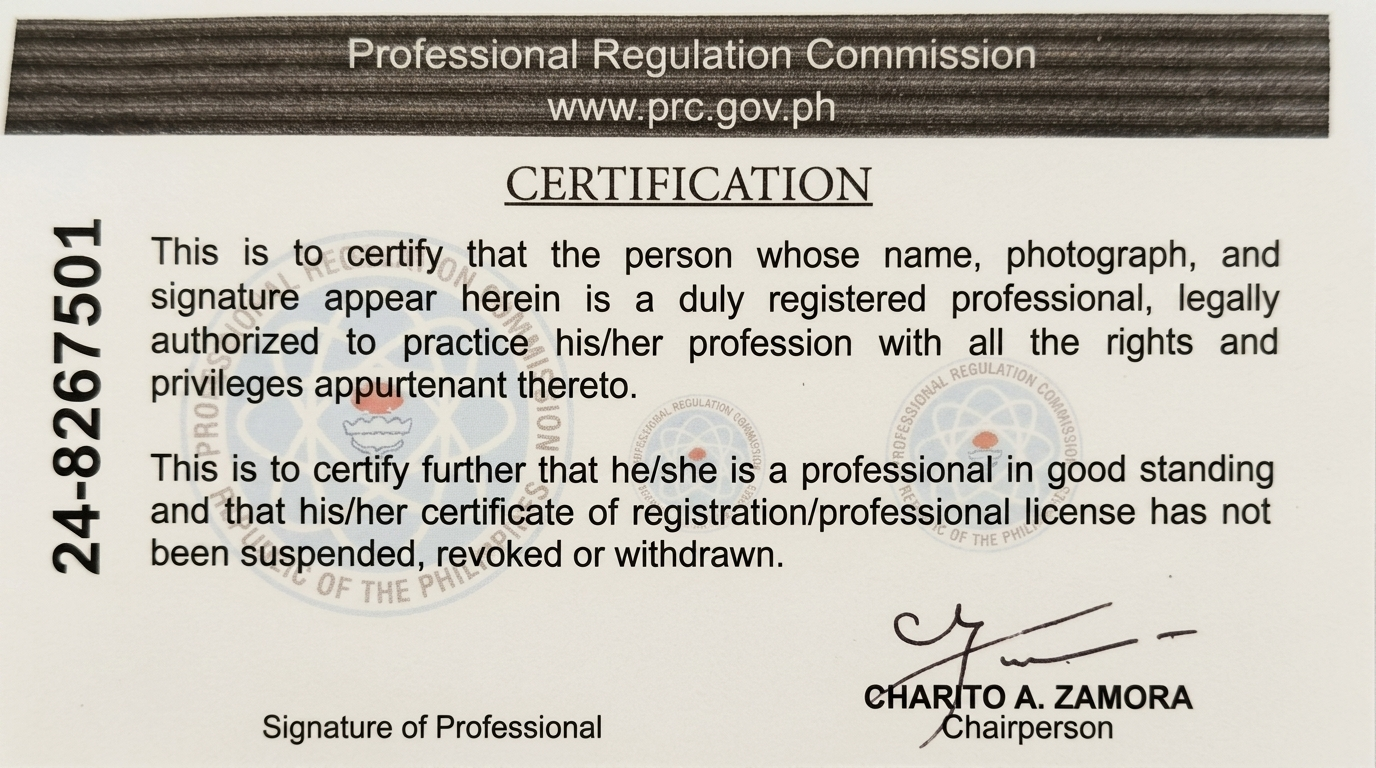
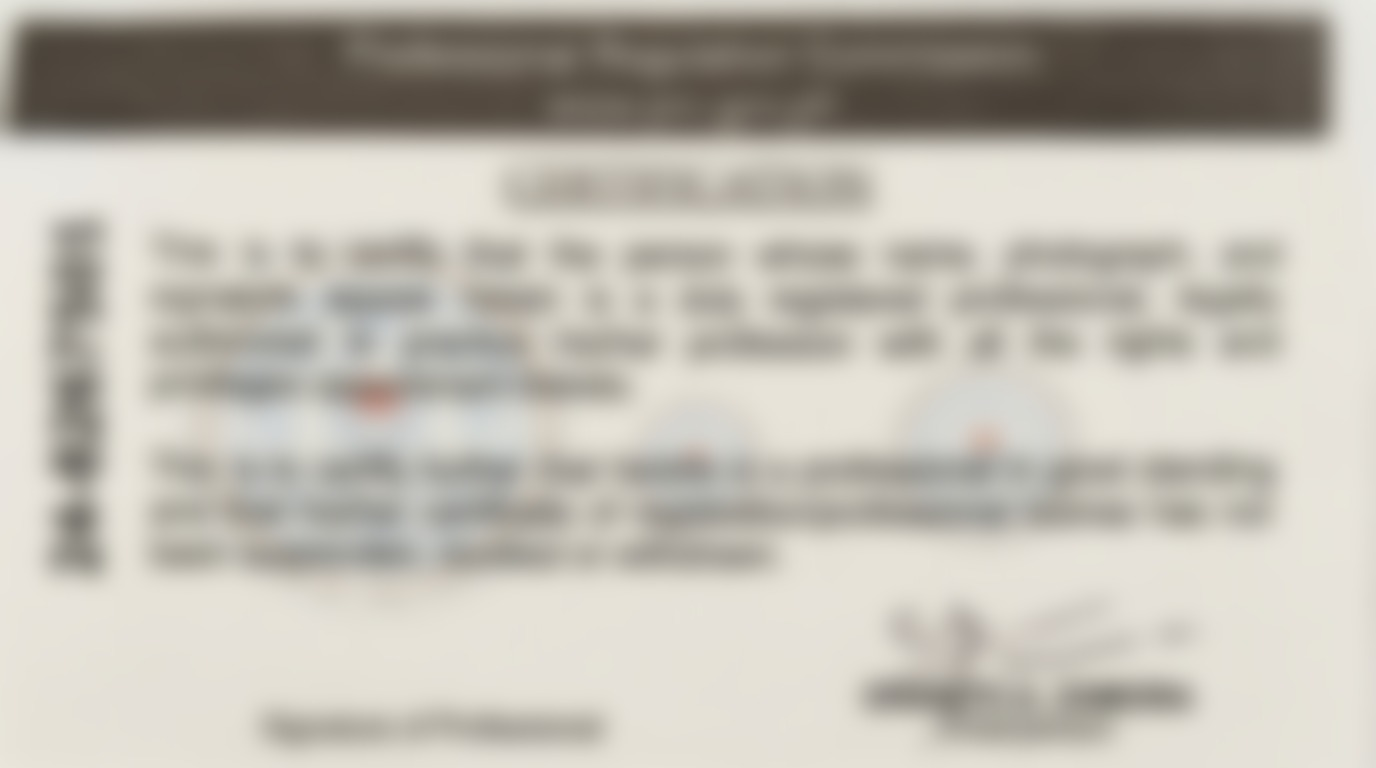
fix(about): blur engineer ID details for privacy

diff --git a/pages/about.html b/pages/about.html
@@ -813,9 +813,25 @@
               <p><strong>Registration Date:</strong> <span>06/8/2025</span></p>
               <p><strong>Valid Until:</strong> <span>02/03/2028</span></p>
             </div>
-            <div class="eng-id-showcase mt-5" style="display: flex; gap: 20px; justify-content: center; flex-wrap: wrap;">
-              <img src="../assets/engineer/front.jpeg" alt="Engineer Front ID" style="max-width: 100%; border: 1px solid var(--color-border); width: 280px; object-fit: contain;">
-              <img src="../assets/engineer/back.jpeg" alt="Engineer Back ID" style="max-width: 100%; border: 1px solid var(--color-border); width: 280px; object-fit: contain;">
+            <div class="eng-id-showcase mt-5">
+              <div class="eng-id-frame">
+                <img src="../assets/engineer/front.jpeg" alt="Engineer Front ID">
+                <div class="eng-id-badge">
+                  <svg xmlns="http://www.w3.org/2000/svg" width="12" height="12" fill="currentColor" viewBox="0 0 16 16">
+                    <path d="M8 1a2 2 0 0 1 2 2v4H6V3a2 2 0 0 1 2-2zm3 6V3a3 3 0 0 0-6 0v4a2 2 0 0 0-2 2v5a2 2 0 0 0 2 2h6a2 2 0 0 0 2-2V9a2 2 0 0 0-2-2z"/>
+                  </svg>
+                  Details blurred for privacy
+                </div>
+              </div>
+              <div class="eng-id-frame">
+                <img src="../assets/engineer/back.jpeg" alt="Engineer Back ID">
+                <div class="eng-id-badge">
+                  <svg xmlns="http://www.w3.org/2000/svg" width="12" height="12" fill="currentColor" viewBox="0 0 16 16">
+                    <path d="M8 1a2 2 0 0 1 2 2v4H6V3a2 2 0 0 1 2-2zm3 6V3a3 3 0 0 0-6 0v4a2 2 0 0 0-2 2v5a2 2 0 0 0 2 2h6a2 2 0 0 0 2-2V9a2 2 0 0 0-2-2z"/>
+                  </svg>
+                  Details blurred for privacy
+                </div>
+              </div>
             </div>
           </div>
         </div>

diff --git a/styles/about.css b/styles/about.css
@@ -251,6 +251,57 @@
             font-weight: 500;
             letter-spacing: 1px;
         }
+        .eng-id-showcase {
+            display: flex;
+            gap: 20px;
+            justify-content: center;
+            flex-wrap: wrap;
+            margin-top: 30px;
+        }
+        .eng-id-frame {
+            position: relative;
+            overflow: hidden;
+            border: 1px solid var(--color-border);
+            border-radius: 8px;
+            width: 280px;
+            background: rgba(0, 0, 0, 0.4);
+            box-shadow: 0 4px 15px rgba(0, 0, 0, 0.3);
+        }
+        .eng-id-frame img {
+            width: 100%;
+            height: auto;
+            display: block;
+            object-fit: contain;
+            filter: blur(4px);
+            transform: scale(1.05);
+            user-select: none;
+            pointer-events: none;
+        }
+        .eng-id-badge {
+            position: absolute;
+            bottom: 10px;
+            left: 50%;
+            transform: translateX(-50%);
+            background: rgba(10, 15, 20, 0.85);
+            border: 1px solid var(--color-border);
+            backdrop-filter: blur(6px);
+            -webkit-backdrop-filter: blur(6px);
+            color: var(--color-muted);
+            font-size: 0.72rem;
+            padding: 4px 10px;
+            border-radius: 20px;
+            letter-spacing: 0.5px;
+            white-space: nowrap;
+            display: flex;
+            align-items: center;
+            gap: 6px;
+            pointer-events: none;
+            z-index: 2;
+        }
+        .eng-id-badge svg {
+            color: var(--color-accent);
+        }
+
         .disclaimer-box {
             background: rgba(255, 0, 0, 0.03);
             border: 1px solid #4a1c1c;
